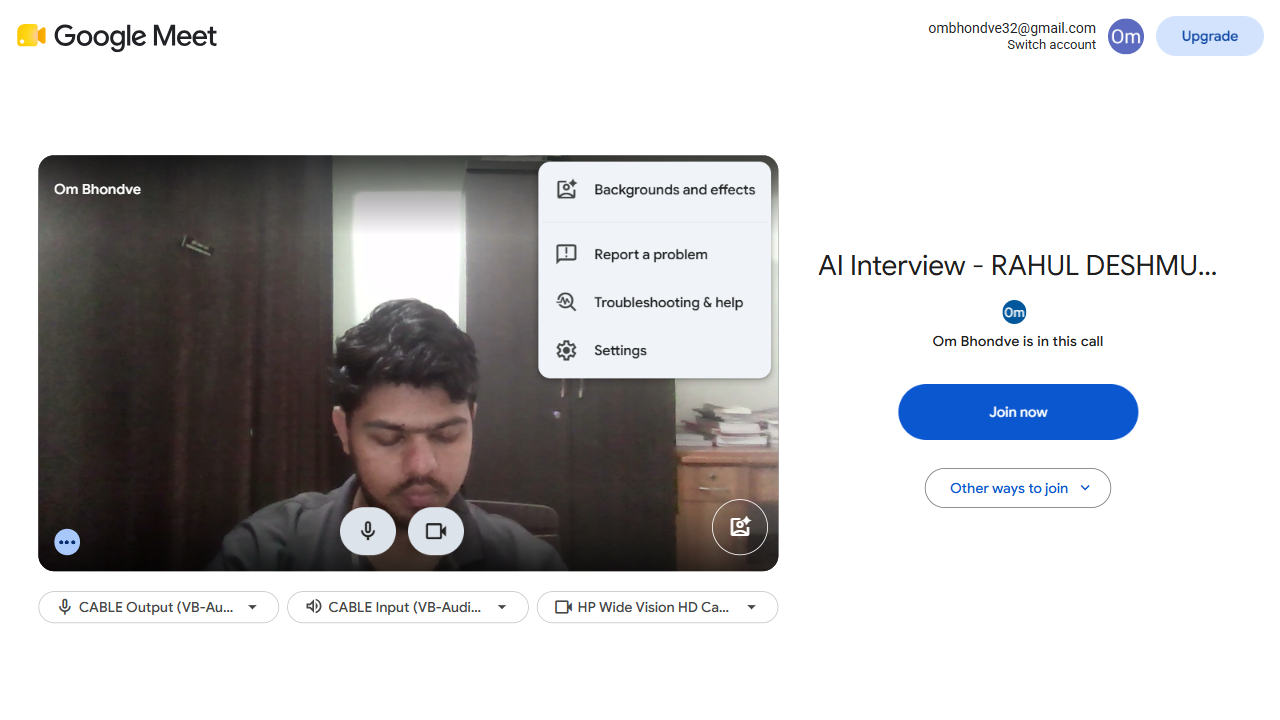
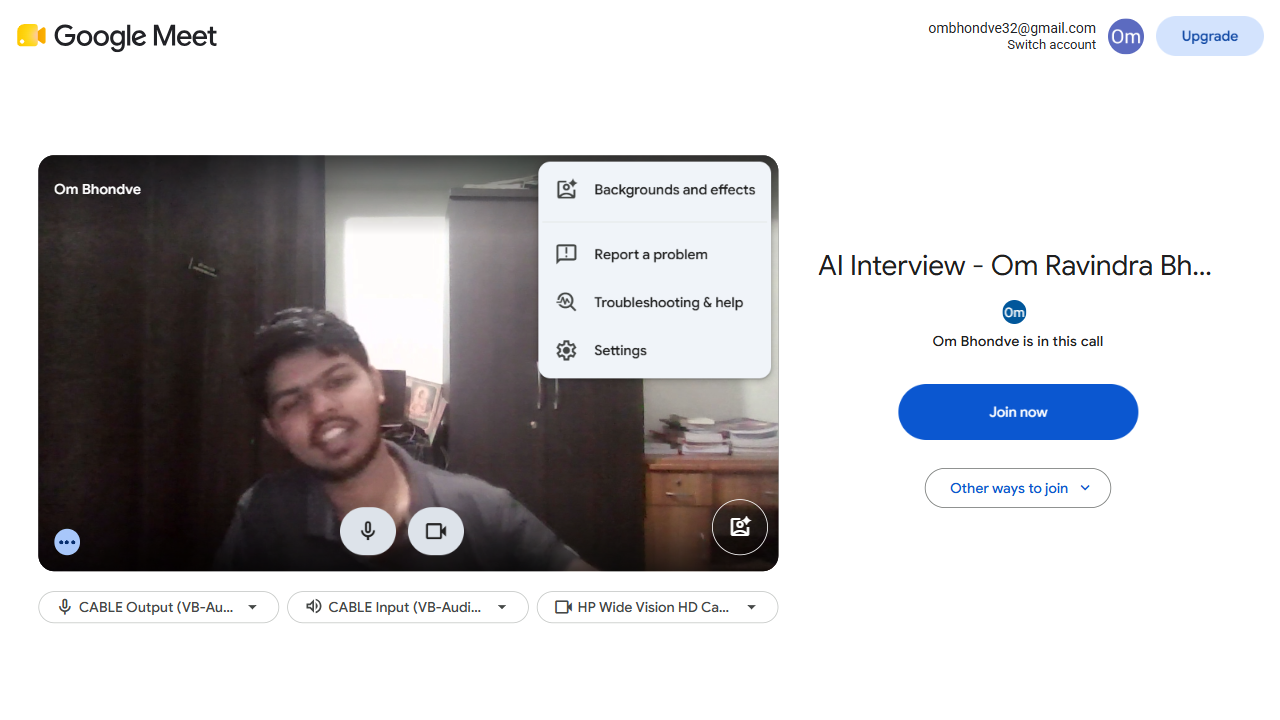
new

diff --git a/backend/src/modules/interview/interview.routes.js b/backend/src/modules/interview/interview.routes.js
@@ -168,6 +168,15 @@ router.post("/internal/:interviewId/answer", validInterviewId, async (req, res) 
       closing: Boolean(result.closing),
     });
   } catch (error) {
+    logger.error("[AI_INTERVIEW_ANSWER_ERROR]", {
+      interviewId: req.params.interviewId,
+      candidateId: req.body?.candidateId,
+      transcript: req.body?.transcript || req.body?.text,
+      requestId: req.body?.requestId,
+      errorName: error.name,
+      errorMessage: error.message,
+      stack: error.stack,
+    });
     return handleError(res, error);
   }
 });

diff --git a/backend/src/modules/interview/interview.prompt.js b/backend/src/modules/interview/interview.prompt.js
@@ -11,6 +11,7 @@ export const INTERVIEW_CATEGORIES = [
   "PRECHECK",
   "INTRODUCTION",
   "PROJECT_CONFIRMATION",
+  "PROJECT_UNDERSTANDING",
   "PROJECT_OVERVIEW",
   "PROJECT_ARCHITECTURE",
   "TECHNOLOGY",

diff --git a/meeting-bot/app/recruitai_client.py b/meeting-bot/app/recruitai_client.py
@@ -5,6 +5,7 @@ Handles authentication, timeouts, retries, and sanitized logging.
 """
 
 import uuid
+import time
 import logging
 from typing import Optional, Dict, Any
 import requests
@@ -98,19 +99,42 @@ class RecruitAIClient:
             f"(requestId: {req_id}, chars: {len(transcript)}) to {endpoint}"
         )
 
-        try:
-            response = requests.post(
-                endpoint,
-                json=payload,
-                headers=headers,
-                timeout=self.timeout_seconds,
-            )
-        except requests.exceptions.Timeout:
-            logger.error(f"[RecruitAIClient] Request timed out connecting to backend ({endpoint})")
-            raise TimeoutError("Backend request timed out.")
-        except requests.exceptions.RequestException as exc:
-            logger.error(f"[RecruitAIClient] Network error connecting to backend: {exc}")
-            raise ConnectionError(f"Backend network error: {exc}")
+        max_retries = 3
+        last_exception = None
+
+        for attempt in range(max_retries):
+            try:
+                response = requests.post(
+                    endpoint,
+                    json=payload,
+                    headers=headers,
+                    timeout=self.timeout_seconds,
+                )
+            except requests.exceptions.Timeout as t_err:
+                logger.warning(f"[RecruitAIClient] Attempt {attempt + 1}/{max_retries} timed out connecting to backend ({endpoint})")
+                last_exception = TimeoutError("Backend request timed out.")
+                if attempt < max_retries - 1:
+                    time.sleep(1.0 * (attempt + 1))
+                    continue
+                raise last_exception
+            except requests.exceptions.RequestException as exc:
+                logger.warning(f"[RecruitAIClient] Attempt {attempt + 1}/{max_retries} network error: {exc}")
+                last_exception = ConnectionError(f"Backend network error: {exc}")
+                if attempt < max_retries - 1:
+                    time.sleep(1.0 * (attempt + 1))
+                    continue
+                raise last_exception
+
+            if response.status_code >= 500:
+                logger.warning(f"[RecruitAIClient] Attempt {attempt + 1}/{max_retries} received {response.status_code} from backend.")
+                last_exception = RuntimeError(f"Backend server error ({response.status_code}).")
+                if attempt < max_retries - 1:
+                    time.sleep(1.0 * (attempt + 1))
+                    continue
+                raise last_exception
+
+            # If not 5xx, break retry loop to process response
+            break
 
         if response.status_code == 401:
             logger.error("[RecruitAIClient] 401 Unauthorized: Invalid internal service secret.")
@@ -129,9 +153,6 @@ class RecruitAIClient:
             except Exception:
                 msg = "Interview not in progress."
             raise ValueError(msg)
-        elif response.status_code >= 500:
-            logger.error(f"[RecruitAIClient] {response.status_code} Internal Server Error from backend.")
-            raise RuntimeError(f"Backend server error ({response.status_code}).")
         elif not response.ok:
             logger.error(f"[RecruitAIClient] HTTP {response.status_code}: {response.text}")
             raise RuntimeError(f"Backend error ({response.status_code}): {response.text}")

diff --git a/meeting-bot/app/main.py b/meeting-bot/app/main.py
@@ -640,8 +640,23 @@ async def run_cli():
                     # Reject empty or extremely low confidence noise (allow 0.20+ for Indian accented / Hindi / Marathi code-switching)
                     if not transcript or confidence < 0.20:
                         logger.info(f"[STT] Filtered empty/low-confidence transcript (conf={round(confidence, 2)})")
-                        conv_mgr.set_state(ConversationState.WAITING_FOR_CANDIDATE, decision="low_confidence_filtered")
+                        conv_mgr.empty_transcript_count = getattr(conv_mgr, "empty_transcript_count", 0) + 1
+                        # If candidate spoke for >= 1.0s but transcript came back blank twice in a row, politely ask to repeat
+                        if speech_dur >= 1.0 and conv_mgr.empty_transcript_count >= 2:
+                            conv_mgr.empty_transcript_count = 0
+                            conv_mgr.set_state(ConversationState.CLARIFICATION, decision="ask_to_repeat_unheard_speech")
+                            try:
+                                await bot_instance.speak_text("Sorry, I couldn't catch that clearly. Could you say that again?")
+                            except Exception:
+                                pass
+                            audio_capture.reset_buffer()
+                            conv_mgr.last_speech_time = time.monotonic()
+                            conv_mgr.set_state(ConversationState.WAITING_FOR_CANDIDATE, decision="listening_after_unheard_prompt")
+                        else:
+                            conv_mgr.set_state(ConversationState.WAITING_FOR_CANDIDATE, decision="low_confidence_filtered")
                         continue
+
+                    conv_mgr.empty_transcript_count = 0
 
                     if bot_instance.is_ai_speaking():
                         logger.info("[STT] Ignored candidate transcript because AI_SPEAKING=true")
@@ -796,6 +811,10 @@ async def run_cli():
                         conv_mgr.last_speech_time = time.monotonic()
                         audio_capture.reset_buffer()
                         logger.info("[AUDIO] Audio buffer reset after backend submission recovery.")
+                        try:
+                            await bot_instance.speak_text("I had a brief glitch processing that. Could you please say that one more time?")
+                        except Exception:
+                            pass
 
             except (KeyboardInterrupt, asyncio.CancelledError):
                 pass
